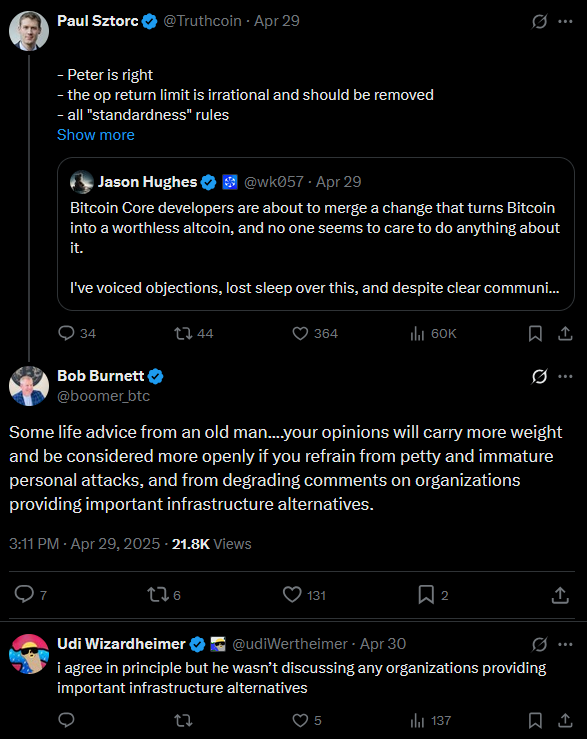
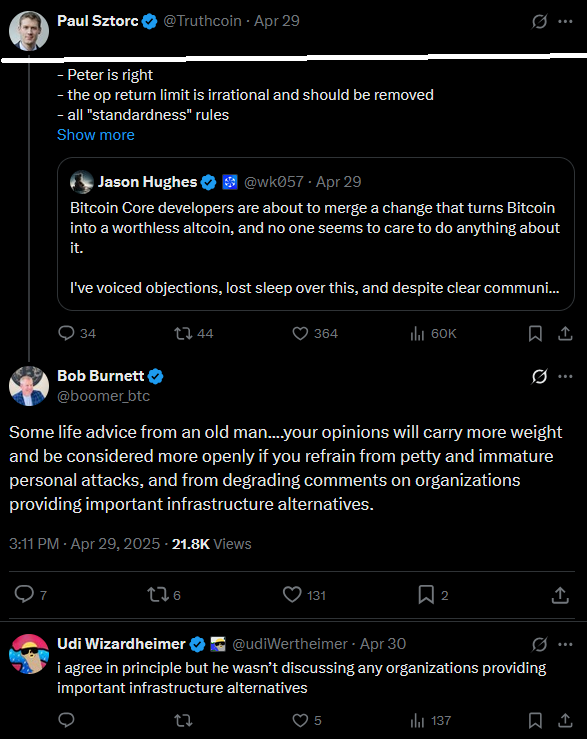
typo / wrong image uploaded

Changed region(s): [[0.0, 0.0622, 1.0, 0.0934]]

diff --git a/_posts/2025-05-26-popular-mining-lies.md b/_posts/2025-05-26-popular-mining-lies.md
@@ -73,7 +73,7 @@ These questions takes us to *the blocksize war* -- itself a constellation of mis
 
 ## Part 2 -- The Blocksize War
 
-Many common believes about the blocksize war are wrong. 
+Many common beliefs about the blocksize war are wrong. 
 
 The truth is: the blocksize war proved how *reliable* and *well-behaved* the miners are -- (not the reverse as is conventional wisdom).
 
